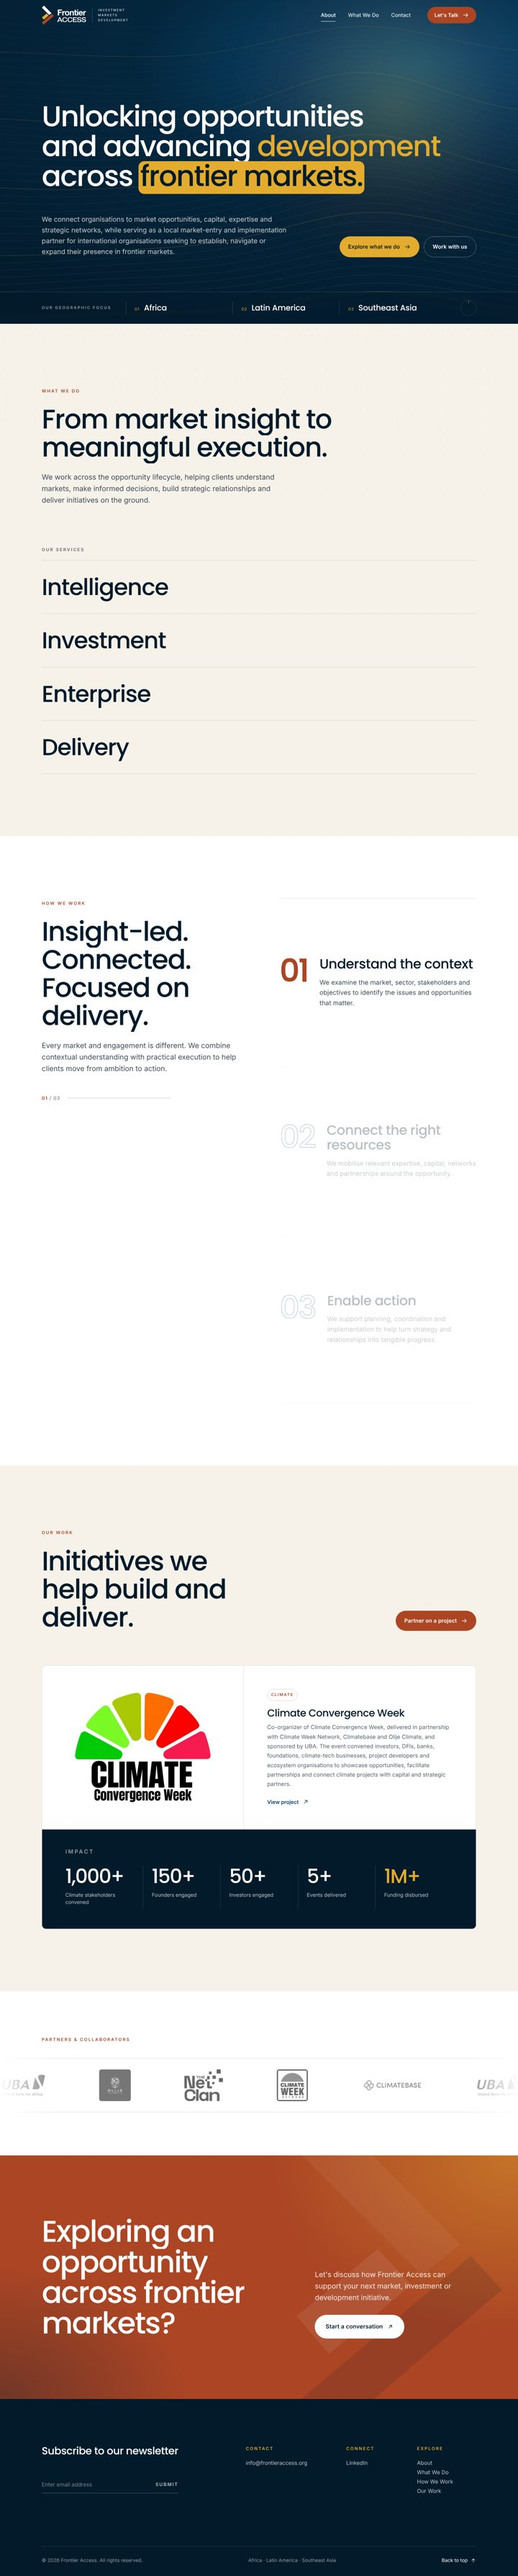
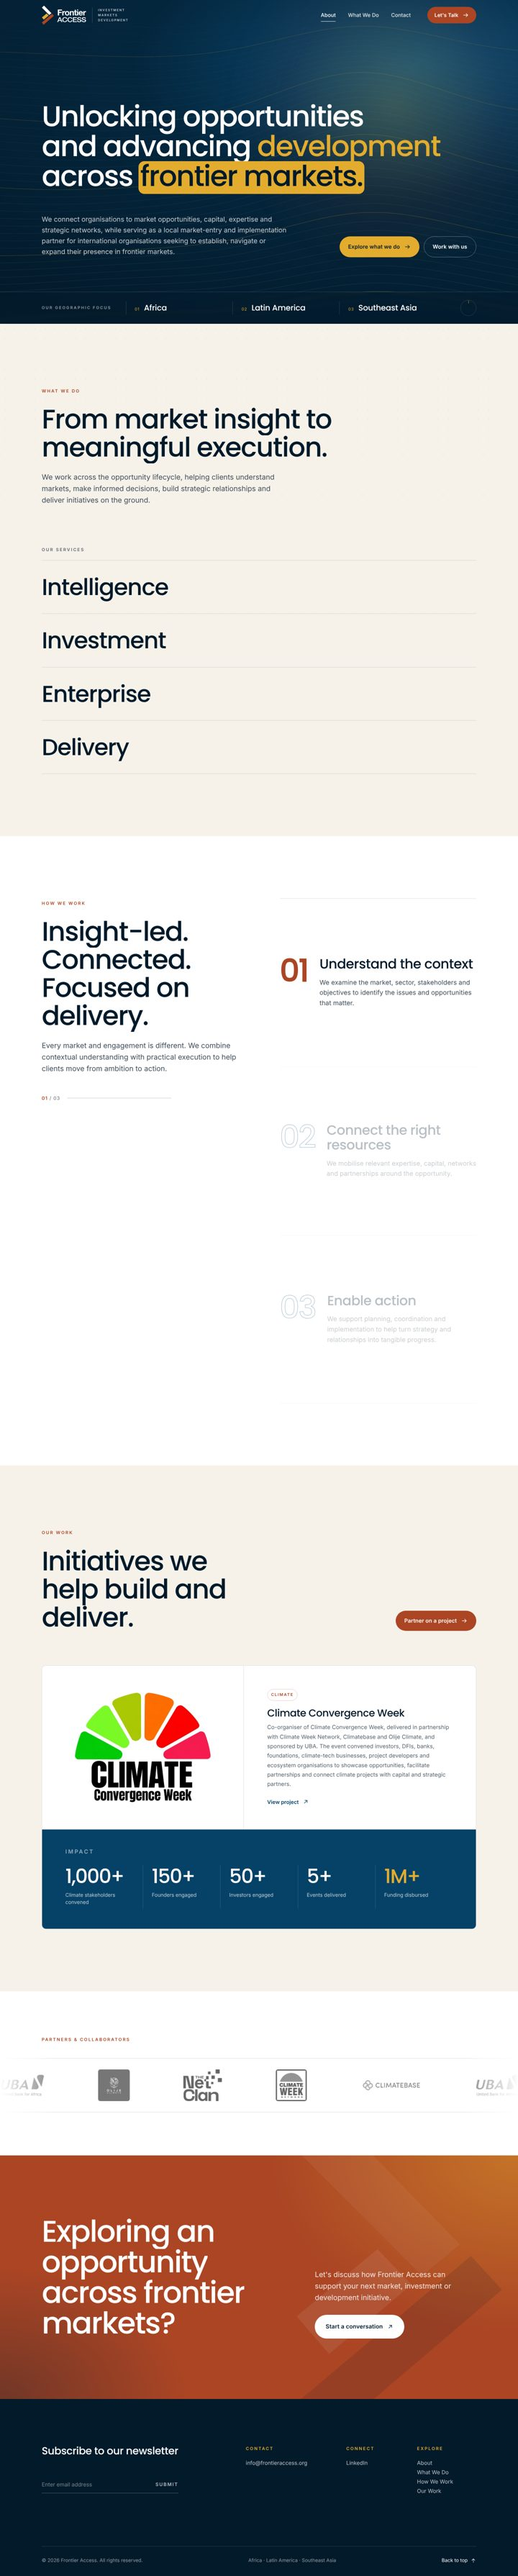
British spelling; brand navy for the Impact band
- "Co-organizer" becomes "Co-organiser" (the only American spelling left
  in the page copy).
- The Impact band on the Climate Convergence Week card uses the brand
  navy #064268 instead of the darker footer navy.

Claude-Session: https://claude.ai/code/session_013iMuxdDqZ6bm7NfrpEJfTy

Changed region(s): [[0.0611, 0.7131, 0.9167, 0.7751], [0.5194, 0.8061, 0.5806, 0.8372], [0.3667, 0.8061, 0.4278, 0.8372]]

diff --git a/index.html b/index.html
@@ -246,7 +246,7 @@
               <div class="project-body">
                 <span class="tag">Climate</span>
                 <h3>Climate Convergence Week</h3>
-                <p>Co-organizer of Climate Convergence Week, delivered in partnership with Climate Week Network, Climatebase and Olije Climate, and sponsored by UBA. The event convened investors, DFIs, banks, foundations, climate-tech businesses, project developers and ecosystem organisations to showcase opportunities, facilitate partnerships and connect climate projects with capital and strategic partners.</p>
+                <p>Co-organiser of Climate Convergence Week, delivered in partnership with Climate Week Network, Climatebase and Olije Climate, and sponsored by UBA. The event convened investors, DFIs, banks, foundations, climate-tech businesses, project developers and ecosystem organisations to showcase opportunities, facilitate partnerships and connect climate projects with capital and strategic partners.</p>
                 <a class="project-link" href="https://www.climateconvergenceweek.com" target="_blank" rel="noopener">View project <svg aria-hidden="true"><use href="#arrow-ne" /></svg><span class="sr-only"> (opens climateconvergenceweek.com in a new tab)</span></a>
               </div>
             </div>

diff --git a/styles.css b/styles.css
@@ -322,7 +322,7 @@ html:not(.js) .hero-hl, .is-loaded .hero-hl { background-size: 100% 100%; color:
 }
 .project--feature:hover { box-shadow: 0 30px 60px -36px rgba(6,66,104,.3); border-color: rgba(171,69,36,.35); }
 .project-main { display: grid; grid-template-columns: 1fr 1.15fr; align-items: stretch; }
-.project-stats { border-top: 1px solid var(--navy-ink); background: var(--navy-ink); color: #fff; padding: clamp(28px, 3.5vw, 48px) clamp(24px, 4.5vw, 72px) clamp(32px, 4vw, 56px); }
+.project-stats { border-top: 1px solid var(--navy); background: var(--navy); color: #fff; padding: clamp(28px, 3.5vw, 48px) clamp(24px, 4.5vw, 72px) clamp(32px, 4vw, 56px); }
 .project-stats .stats { margin-top: 24px; }
 .project-stats .stat:first-child { border-left: 0; padding-left: 0; }
 .project-stats .stat dt { font-size: clamp(36px, 3.8vw, 60px); }
